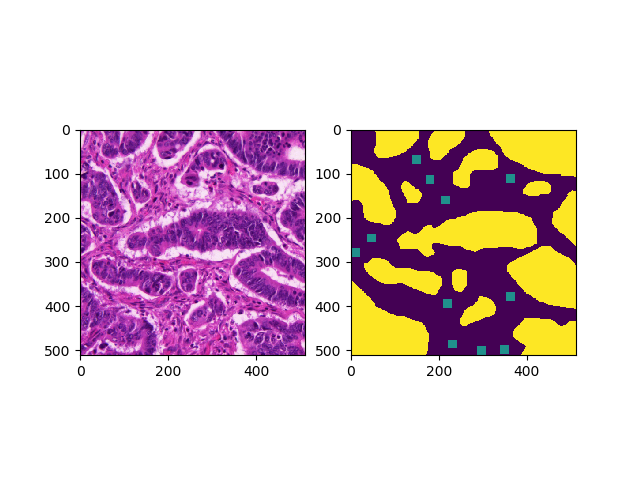
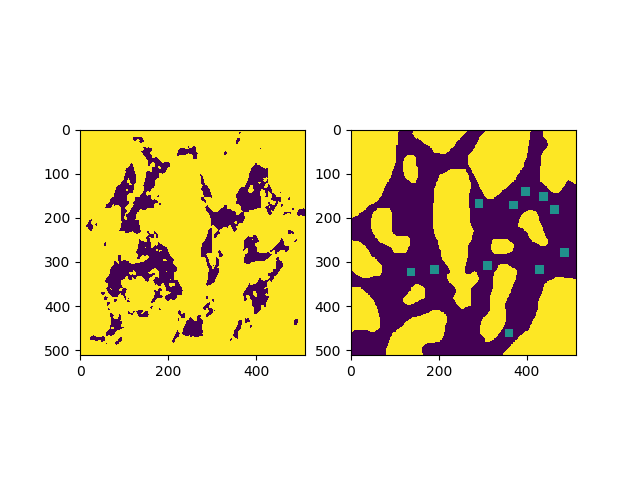
Added trainable backbone architecture

Changed region(s): [[0.125, 0.25, 0.5, 0.75], [0.5312, 0.25, 0.9062, 0.75]]

diff --git a/model/model.py b/model/model.py
@@ -14,9 +14,21 @@ class WESUP(nn.Module):
         super(WESUP, self).__init__()
         self.inc = in_channels
         self.out = out_channels
-        self.backbone = models.vgg16(pretrained = True)
+        self.backbone = models.vgg16(pretrained = True).features
+        
+        # sum of channels of all feature maps
+        self.fm_channels_sum = 0
+
+        # side convolution layers after each conv feature map
+        for layer in self.backbone:
+            if isinstance(layer, nn.Conv2d):
+                layer.register_forward_hook(self._hook_fn)
+                setattr(self, f'side_conv{self.fm_channels_sum}',
+                        nn.Conv2d(layer.out_channels, layer.out_channels // 2, 1))
+                self.fm_channels_sum += layer.out_channels // 2
+
         self.mlp = nn.Sequential(
-            nn.Linear(4224, 1024),
+            nn.Linear(2112, 1024),
             nn.ReLU(),
             nn.Linear(1024, 1024),
             nn.ReLU(),
@@ -28,45 +40,47 @@ class WESUP(nn.Module):
             nn.Softmax(dim=-1)
         )
 
+    def _hook_fn(self, _, input_, output):
+        if self.feature_maps is None:
+            self.fm_size = (input_[0].size(2), input_[0].size(3))
+            side_conv_name = 'side_conv0'
+        else:
+            side_conv_name = f'side_conv{self.feature_maps.size(0)}'
+
+        output = getattr(self, side_conv_name)(output.clone())
+        output = F.interpolate(output, self.fm_size,
+                               mode='bilinear', align_corners=True)
+
+        if self.feature_maps is None:
+            self.feature_maps = output.squeeze()
+        else:
+            self.feature_maps = torch.cat(
+                (self.feature_maps, output.squeeze()))
+
     def forward(self, x, y, phase = 'train'):
         if phase == 'train':
-            conv = []
-            conv.append(F.interpolate(self.backbone.features[:1](x), size = (x.shape[2], x.shape[2]), mode = 'bicubic').detach())
-            conv.append(F.interpolate(self.backbone.features[:3](x), size = (x.shape[2], x.shape[2]), mode = 'bicubic').detach())
-            conv.append(F.interpolate(self.backbone.features[:6](x), size = (x.shape[2], x.shape[2]), mode = 'bicubic').detach())
-            conv.append(F.interpolate(self.backbone.features[:8](x), size = (x.shape[2], x.shape[2]), mode = 'bicubic').detach())
-            conv.append(F.interpolate(self.backbone.features[:11](x), size = (x.shape[2], x.shape[2]), mode = 'bicubic').detach())
-            conv.append(F.interpolate(self.backbone.features[:13](x), size = (x.shape[2], x.shape[2]), mode = 'bicubic').detach())
-            conv.append(F.interpolate(self.backbone.features[:15](x), size = (x.shape[2], x.shape[2]), mode = 'bicubic').detach())
-            conv.append(F.interpolate(self.backbone.features[:18](x), size = (x.shape[2], x.shape[2]), mode = 'bicubic').detach())
-            conv.append(F.interpolate(self.backbone.features[:20](x), size = (x.shape[2], x.shape[2]), mode = 'bicubic').detach())
-            conv.append(F.interpolate(self.backbone.features[:22](x), size = (x.shape[2], x.shape[2]), mode = 'bicubic').detach())
-            conv.append(F.interpolate(self.backbone.features[:25](x), size = (x.shape[2], x.shape[2]), mode = 'bicubic').detach())
-            conv.append(F.interpolate(self.backbone.features[:27](x), size = (x.shape[2], x.shape[2]), mode = 'bicubic').detach())
-            conv.append(F.interpolate(self.backbone.features[:29](x), size = (x.shape[2], x.shape[2]), mode = 'bicubic').detach())
+            self.feature_maps = None
+            _ = self.backbone(x)
             sp = torch.from_numpy(slic(x.squeeze(0).permute(1, 2, 0).cpu(), n_segments = (x.shape[2] * x.shape[3]) / 400, compactness = 50))
             mN = torch.unique(sp)[-1]
             feat = []
             labels = []
+            pred = []
             for i in range(1, mN + 1):
                 idxs = (sp == i).nonzero(as_tuple = False)
                 r = idxs[:, 0]
                 c = idxs[:, 1]
 
-                layers = []
+                tmp = torch.mean(self.feature_maps[:, r, c], 1)
+                pred.append(self.classifier(self.mlp(tmp)))
+                feat.append(tmp.detach())
+                
+
                 lb = y[r, c]
                 zeros = torch.sum(lb == 0)
                 ones = torch.sum(lb == 1)
                 twos = torch.sum(lb == 2)
-                for layer in conv:
-                    s = torch.mean(layer[:, :, r, c], 2).squeeze(0)
-                    layers.append(s)
-
-                s = layers[0]
-                for i in range(1, len(layers)):
-                    s = torch.concat((s, layers[i]))
-
-                feat.append(s.detach())
+                
                 lab = torch.argmax(torch.tensor((zeros, ones, twos))).item()
                 if lab == 0:
                     if twos > int(len(idxs) / 2):
@@ -97,9 +111,9 @@ class WESUP(nn.Module):
                 if maX >= 0.8:
                     labels[u[i]] = labels[l[mIdx]]
 
-            pred = []
-            for i in feat:
-                pred.append(self.classifier(self.mlp(i)))
+            # pred = []
+            # for i in feat:
+            #     pred.append(self.classifier(self.mlp(i)))
 
             return torch.stack(pred), torch.as_tensor(labels)
         elif phase == 'infer':

diff --git a/testing.py b/testing.py
@@ -5,7 +5,7 @@ from model.model import WESUP
 import torch
 import torch.nn.functional as F
 
-def cross_entropy(y_hat, y_true, class_weights=None, epsilon=1e-7):
+def cross_entropy(y_hat, y_true, class_weights, epsilon=1e-7):
     """Semi-supervised cross entropy loss function.
 
     Args:
@@ -58,20 +58,40 @@ opt = torch.optim.Adam(model.parameters(), lr = 1e-4)
 model.to(device)
 x = a[0].unsqueeze(0).to(device)
 y = a[3].to(device)
-for i in range(40):
+# print(y.shape)
+# print(model)
+for i in range(10):
     pred, labels = model(x, y)
     # print(labels)
     labels = convert(labels)
+    # print(model)
+    print(model.backbone[28].weight)
+    # for name, param in model.named_parameters():
+    #     if param.requires_grad:
+    #         print(name)
     # print(pred, labels)
-    loss = cross_entropy(pred, labels.to(device))
+    loss = cross_entropy(pred, labels.to(device), class_weights=torch.tensor([0.75, 0.25]).to(device))
     print(loss)
     opt.zero_grad()
     loss.backward()
+    pred = pred.detach()
     opt.step()
-    
+
 pred = model(x, y, 'infer')
 print(torch.sum(pred == 0), torch.sum(pred == 1))
 fig, ax = plt.subplots(1, 2)
 ax[0].imshow(pred.cpu().numpy())
 ax[1].imshow(y.cpu().numpy())
 plt.savefig('testing.png')
+
+#  [[-1.9884e-02, -2.8676e-02, -1.7745e-02],
+#           [-1.8820e-02, -2.7692e-02, -3.7976e-02],
+#           [-7.1567e-03, -1.6576e-02, -6.9290e-03]],
+
+#          [[-3.3155e-03, -8.4667e-03,  4.0157e-03],
+#           [ 1.9905e-02, -1.0356e-02, -4.5904e-04],
+#           [ 3.1526e-02,  1.0053e-02,  1.1222e-02]],
+
+#          [[-2.6271e-02, -8.1591e-03, -2.9560e-02],
+#           [-3.3923e-02, -2.4079e-02, -2.2005e-02],
+#           [-3.4229e-02, -2.6150e-02, -1.4213e-02]]]]

diff --git a/dataset.py b/dataset.py
@@ -33,7 +33,6 @@ class Aug_GlaS(Dataset):
         return int(len(list))
 
     def __getitem__(self, idx):
-        a = 512
         img = torch.from_numpy(cv2.imread('../../Aug_GlaS/' + self.name + '_' + str(idx + 1) + '.bmp'))
         img_cont = torch.from_numpy(cv2.imread('../../Aug_GlaS/' + self.name + '_' + str(idx + 1) + '_cont.png'))
         img_anno = torch.from_numpy(cv2.imread('../../Aug_GlaS/' + self.name + '_' + str(idx + 1) + '_anno.bmp'))
@@ -52,16 +51,18 @@ class Aug_GlaS(Dataset):
                 newImg = np.add(newImg, tmp) 
 
             count = 0
+            k = 10
             while count <= 10:
                 idx = random.sample(range(0, xs.shape[0]), 1)
                 a = find_nearest_white(newImg, [xs[idx], ys[idx]])
-                if(abs(a[0] - xs[idx]) <= 20 or abs(a[1] - ys[idx]) <= 20):
+                if(abs(a[0] - xs[idx]) <= k or abs(a[1] - ys[idx]) <= k):
                     continue    
                 count += 1
+                print(count)
                 x = xs[idx].item()
                 y = ys[idx].item()
-                newImg[x-10:x+10, y-10 : y+10] = 1
-                
+                newImg[x-k:x+k, y-k : y+k] = 1
+            
             img_anno = torch.from_numpy(newImg).unsqueeze(2)
 
         img = img.permute(2, 0, 1).to(torch.float)

diff --git a/train.py b/train.py
@@ -33,7 +33,7 @@ val_dl = DataLoader(val, shuffle = True, batch_size = bs)
 device = torch.device('cuda:' + str(devices[0]))
 print('Using GPU device :', devices)
 model = WESUP(3, 2)
-opt = torch.optim.Adam(model.parameters(), lr = 10e-4, weight_decay = 10e-5)
+opt = torch.optim.Adam(model.parameters(), lr = 10e-4)
 model = torch.nn.DataParallel(model, device_ids = devices)
 model = model.to(device)
 
